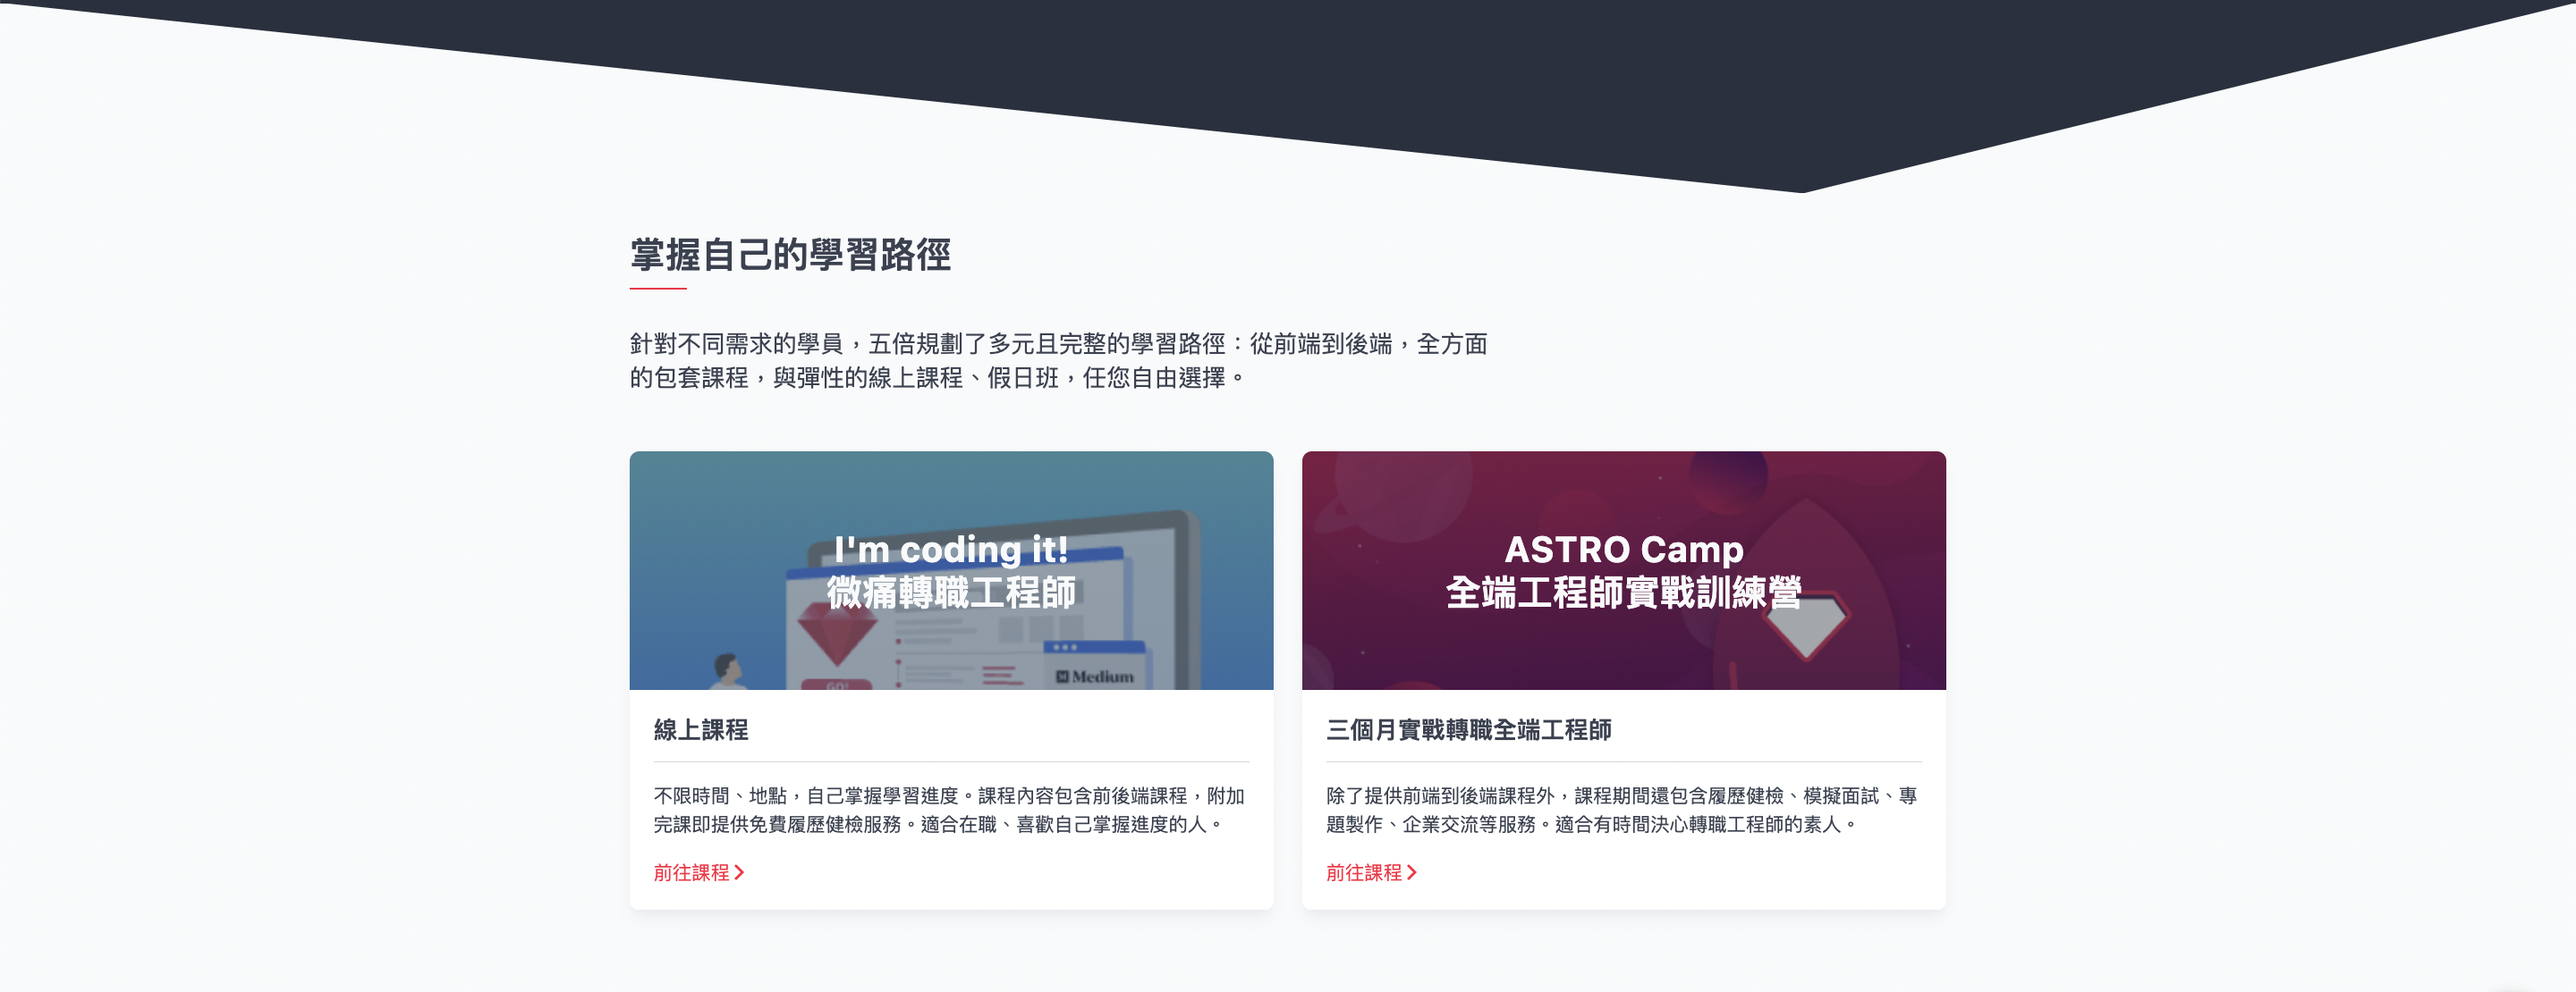
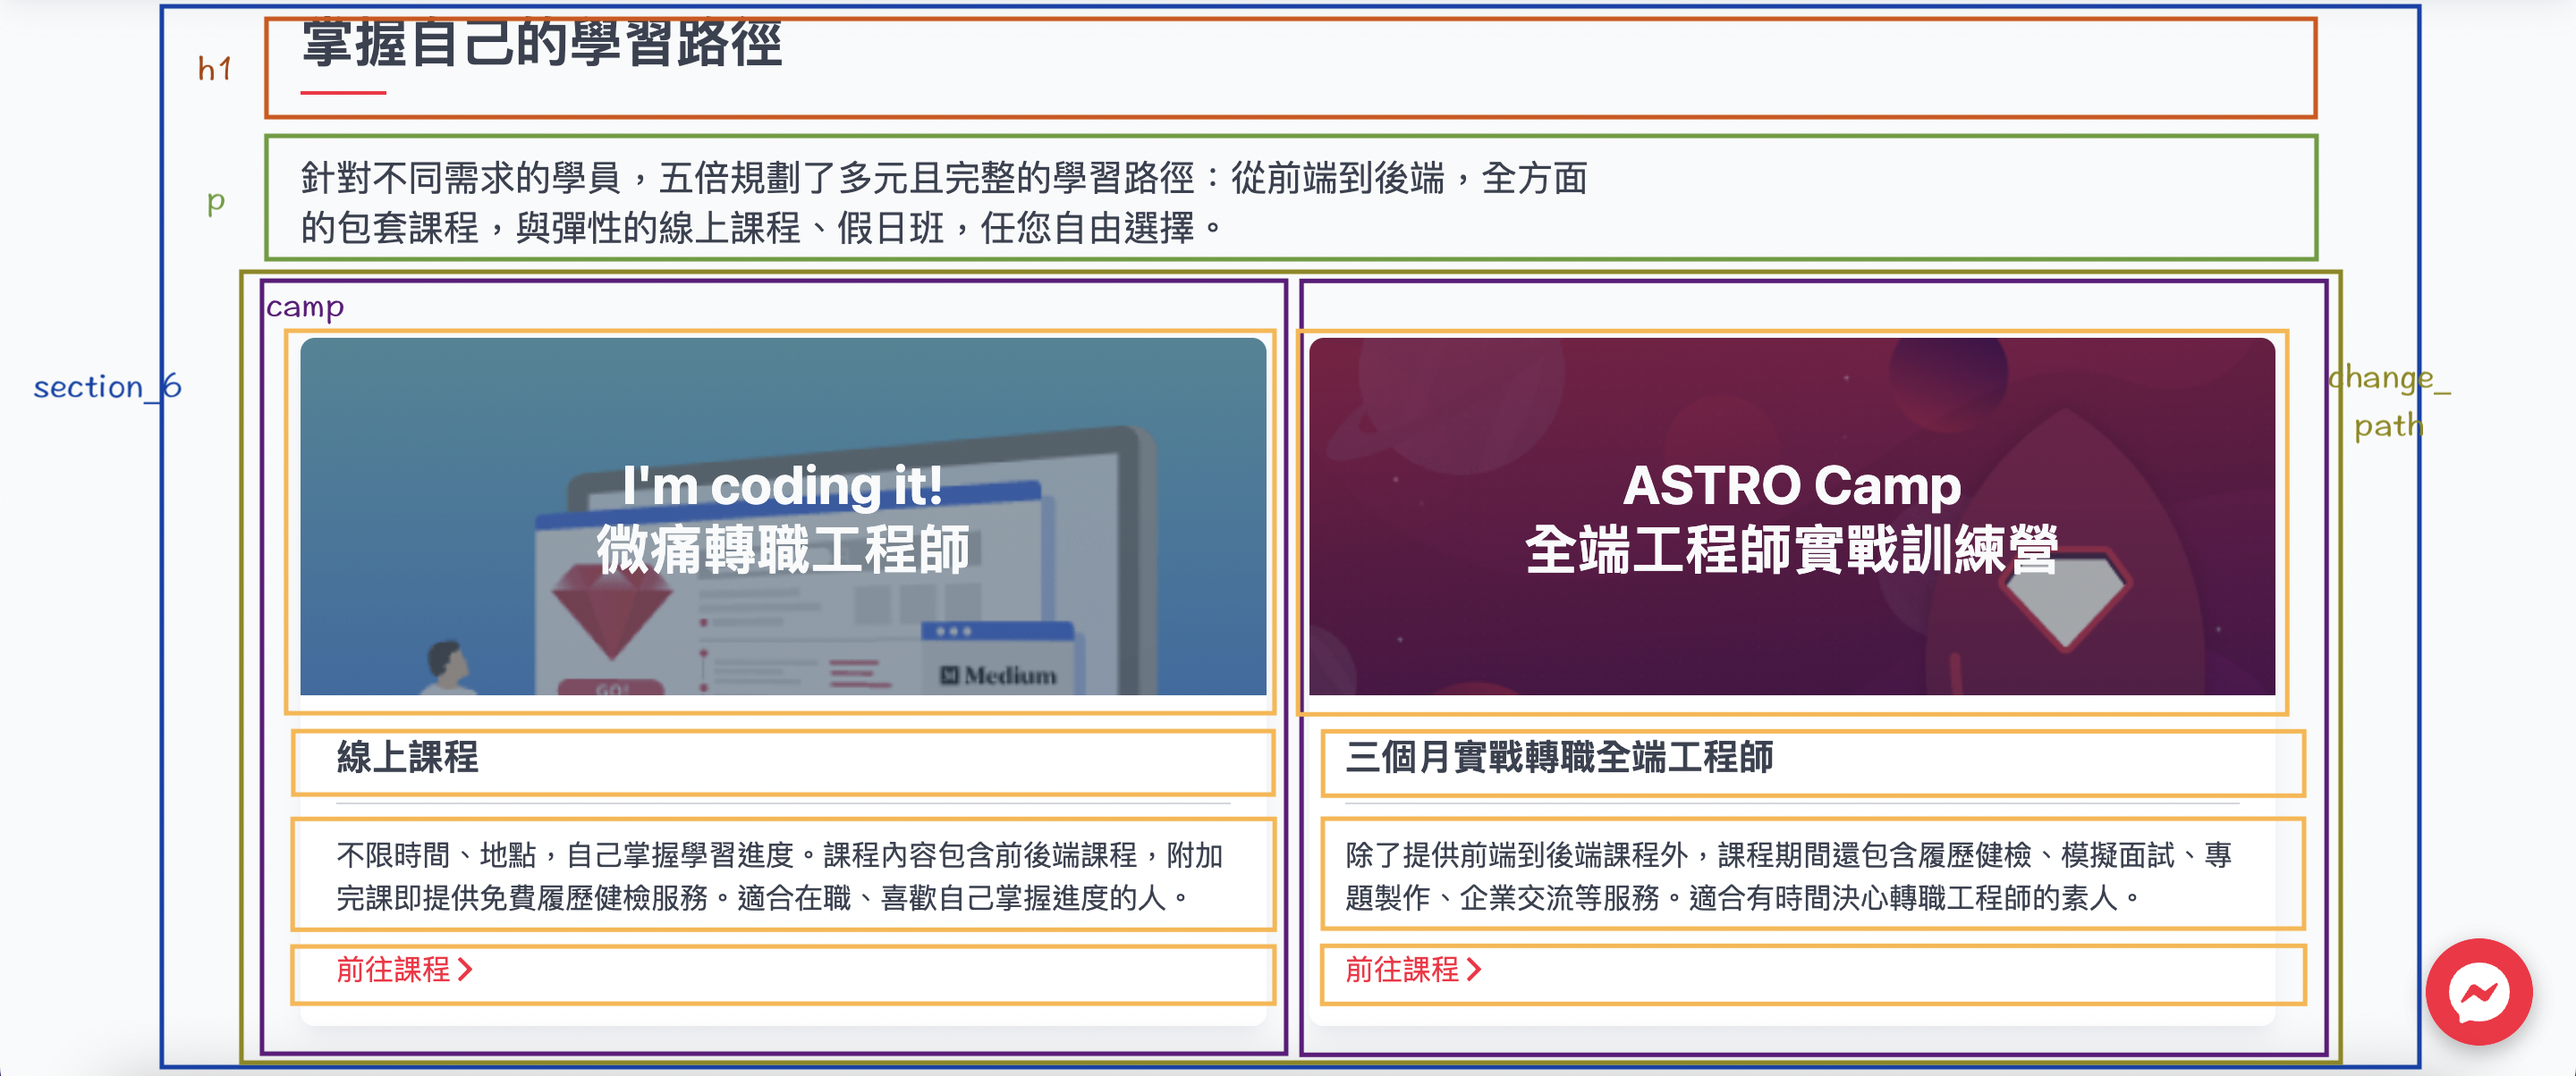
section_6 done

diff --git a/Homework_5xRuby_web/5xRuby.html b/Homework_5xRuby_web/5xRuby.html
@@ -12,6 +12,7 @@
     <link rel="stylesheet" href="section_3.css">
     <link rel="stylesheet" href="section_4.css">
     <link rel="stylesheet" href="section_5.css">
+    <link rel="stylesheet" href="section_6.css">
     <style>
 
 
@@ -332,6 +333,34 @@
             </div>
         </div>    
         <img class="back_triangle_2" src="/pictures/black_triangle_2.png">      
+    </section>
+    <section class="section_6">
+        <div class="group_6">
+            <h1 class="title">掌握自己的學習路徑</h1>
+            <hr 1px color="red" width="50px" align="left">
+            <p class="description">針對不同需求的學員，五倍規劃了多元且完整的學習路徑：從前端到後端，全方面的包套課程，與彈性的線上課程、假日班，任您自由選擇。</p>
+            <div class="change_path">
+                <div class="camp" id="coding">
+                    <a  href="https://iamcoding.tw/">
+                        <img src="/pictures/coding_it.png">
+                        <h2>線上課程</h2>
+                        <hr 1px color="lightgray" width="540" align="center">
+                        <p>不限時間、地點，自己掌握學習進度。課程內容包含前後端課程，附加完課即提供免費履歷健檢服務。適合在職、喜歡自己掌握進度的人。</p>
+                        <a class="go_course" href="https://iamcoding.tw/">前往課程 ></a>
+                    </a>
+                </div>
+                <div class="camp" id="astro_camp">
+                    <a href="https://astro.5xruby.tw/">
+                        <img src="/pictures/Camp.png">
+                        <h2>三個月實戰轉職全端工程師</h2>
+                        <hr 1px color="lightgray" width="540" align="center">
+                        <p>除了提供前端到後端課程外，課程期間還包含履歷健檢、模擬面試、專題製作、企業交流等服務。適合有時間決心轉職工程師的素人。</p>
+                        <a class="go_course" href="https://astro.5xruby.tw/">前往課程 ></a>
+                    </a>
+                </div>
+            </div>
+        </div>
+        <img src="/pictures/triangle_2.png">
     </section>
 </body>
 </html>

diff --git a/Homework_5xRuby_web/section_6.css b/Homework_5xRuby_web/section_6.css
@@ -1,0 +1,65 @@
+.section_6{
+  width: 100%;
+  background-color: rgba(249,250,251);
+  padding-top: 20px;
+}
+.group_6{
+    width: 1200px;
+    margin: auto;
+    padding-bottom: 80px;
+}
+.section_6 .title{
+    margin: 0px;
+}
+.section_6 .description{
+    margin: 30px 0px;
+    font-size: 20px;
+    width: 800px;
+    line-height: 1.5;
+}
+.change_path{
+    width: 100%;
+    display: flex;
+}
+.change_path a{
+    text-decoration: none;
+}
+.camp{
+    width: 580px;
+    padding-bottom: 20px;
+    border-radius: 10px;
+    overflow: hidden;
+    background-color: white;
+    box-shadow: 1px 1px 5px rgb(230, 230, 230);
+}
+#coding{
+    margin-right: 20ox;
+}
+#astro_camp{
+    margin-left: 20px;
+}
+.camp img{
+    width: 100%;
+}
+.camp h2{
+    color: black;
+    font-size: 20px;
+    margin-left: 20px;
+}
+.camp p{
+    color: black;
+    margin-left: 20px;
+    width: 545px;
+    line-height: 1.5;
+}
+.go_course{
+    color: red;
+    margin-left: 20px;
+}
+.go_course:hover{
+    border-bottom: 1px solid red;
+}
+.section_6 img{
+    width: 100%;
+    display: block;
+}
